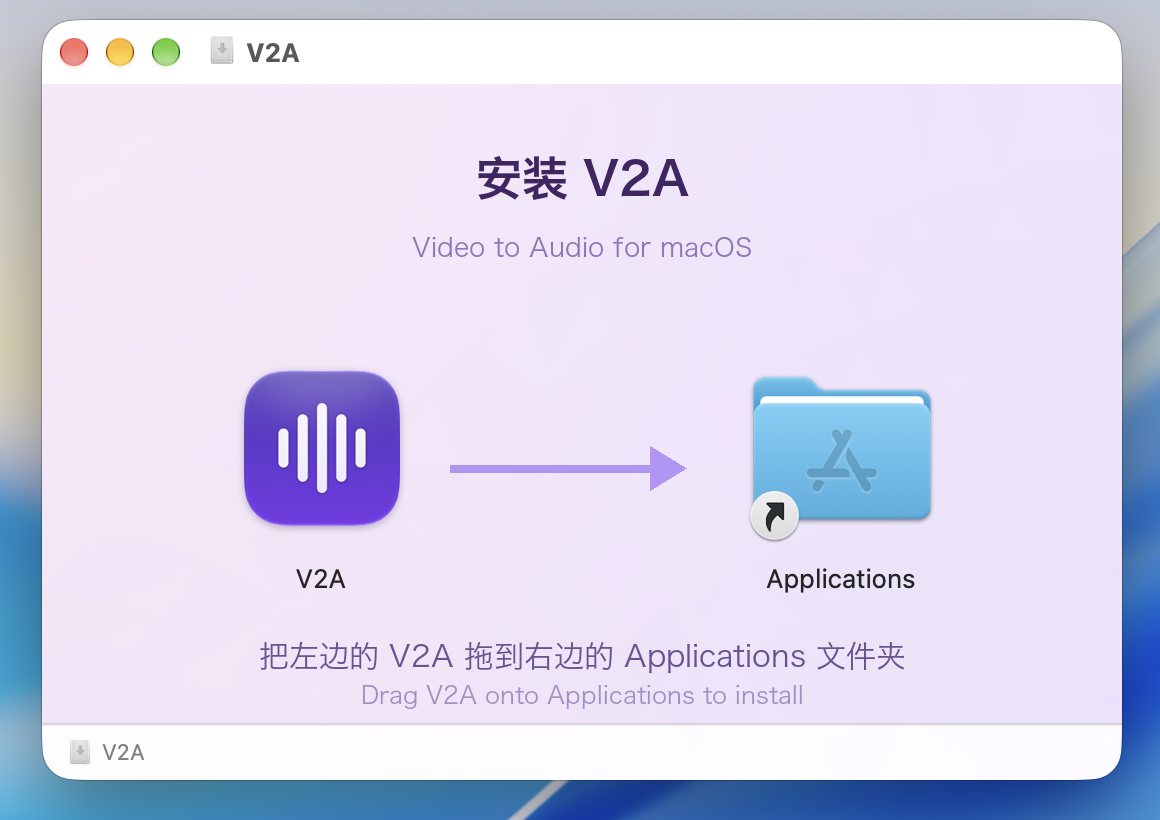
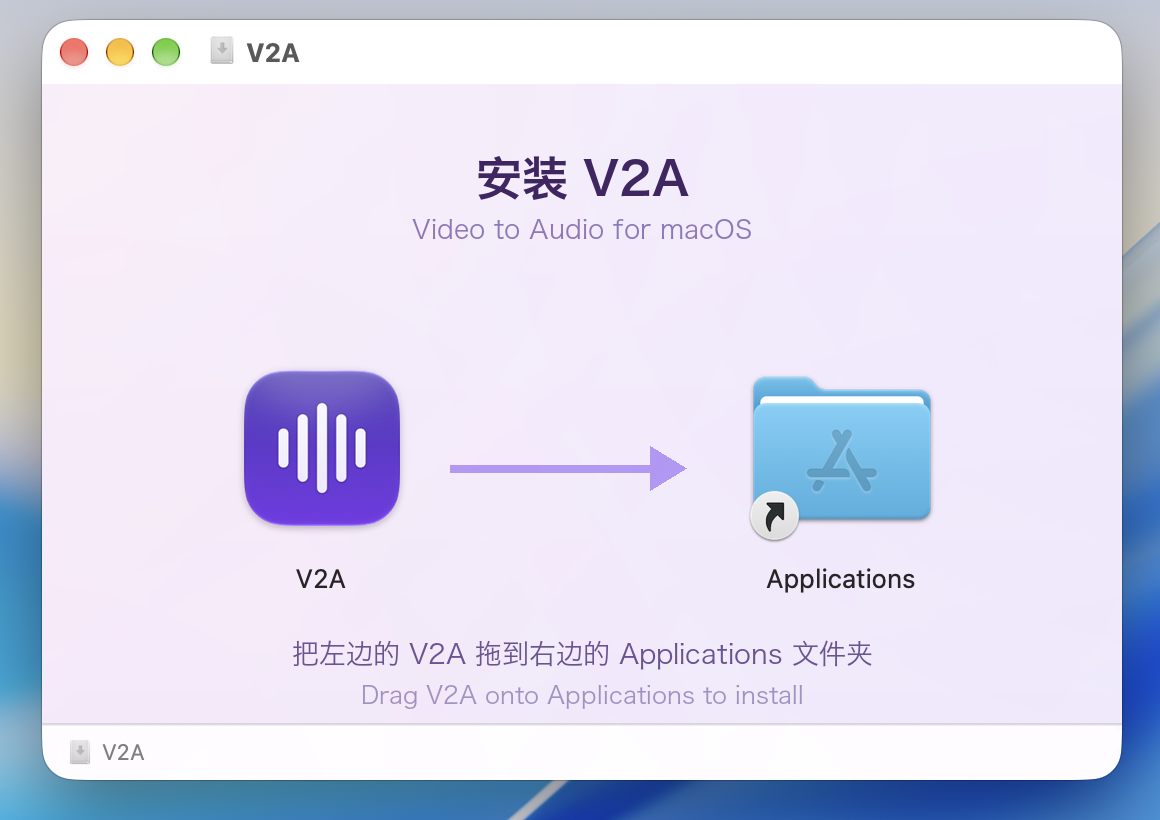
DMG 背景：标题与英文副标题收紧、中文提示缩小、底色更淡

Changed region(s): [[0.2172, 0.7622, 0.7759, 0.8232], [0.3414, 0.2744, 0.6517, 0.3354]]

diff --git a/assets/make_dmg_bg.py b/assets/make_dmg_bg.py
@@ -32,10 +32,10 @@ for y in range(H):
     d.line([(0, y), (W, y)], fill=(r, g, b))
 
 blobs = [
-    ((W * 0.10, H * 0.10), W * 0.52, (248, 205, 235), 86),   # 左上淡粉
-    ((W * 0.94, H * 0.18), W * 0.42, (224, 205, 252), 80),   # 右上淡紫
-    ((W * 0.72, H * 1.02), W * 0.62, (214, 196, 250), 88),   # 右下淡紫
-    ((W * 0.10, H * 0.98), W * 0.34, (247, 214, 240), 64),    # 左下粉
+    ((W * 0.10, H * 0.10), W * 0.52, (248, 205, 235), 58),   # 左上淡粉
+    ((W * 0.94, H * 0.18), W * 0.42, (224, 205, 252), 54),   # 右上淡紫
+    ((W * 0.72, H * 1.02), W * 0.62, (214, 196, 250), 60),   # 右下淡紫
+    ((W * 0.10, H * 0.98), W * 0.34, (247, 214, 240), 42),    # 左下粉
 ]
 for (center, radius, color, alpha) in blobs:
     solid, mask = radial_blob((W, H), center, radius, color, alpha)
@@ -53,7 +53,7 @@ od.text(((W - tw) / 2, 70), title, font=f_title, fill=(52, 20, 88, 235))
 sub = "Video to Audio for macOS"
 f_sub = font(13)
 sw = od.textlength(sub, font=f_sub)
-od.text(((W - sw) / 2, 150), sub, font=f_sub, fill=(110, 80, 165, 190))
+od.text(((W - sw) / 2, 132), sub, font=f_sub, fill=(110, 80, 165, 190))
 
 # ---------- 箭头：两端留出相同间距，存在感降低 ----------
 arrow_y = 384
@@ -65,7 +65,7 @@ od.polygon([(shaft_end - 2, arrow_y - 22), (x1, arrow_y), (shaft_end - 2, arrow_
 
 # ---------- 底部提示：中英靠近，整体下移 ----------
 tip = "把左边的 V2A 拖到右边的 Applications 文件夹"
-f_tip = font(15)
+f_tip = font(13.5)
 pw = od.textlength(tip, font=f_tip)
 od.text(((W - pw) / 2, 556), tip, font=f_tip, fill=(72, 40, 120, 200))
 
